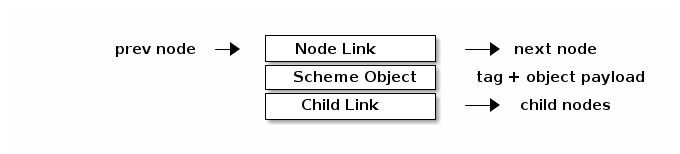
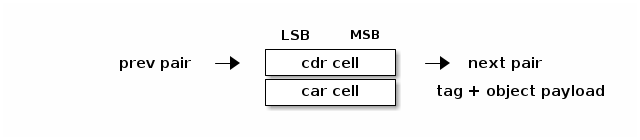
Updated for cons cells

diff --git a/docs/manual.html b/docs/manual.html
@@ -468,6 +468,7 @@ body.book #toc,body.book #preamble,body.book h1.sect0,body.book .sect1>h2{page-b
 <ul class="sectlevel2">
 <li><a href="#_design_descisions">Design descisions</a></li>
 <li><a href="#_memory_map">Memory Map</a></li>
+<li><a href="#_compiler_stuff">Compiler stuff</a></li>
 <li><a href="#_the_repl">The REPL</a></li>
 <li><a href="#_scheme_objects">Scheme objects</a></li>
 </ul>
@@ -792,9 +793,9 @@ depending on the object in question.</p>
 <p>We immediately see the challenges of running Scheme on an 8-bit machine with
 small register, address, and word sizes. Even earliest version of Lisp was
 envisioned for a machine with a 36-bit word size and 15-bit pointers, the IBM
-701.<a href="#JM1">[JM1]</a> It was first [actually
-implemented](<a href="https://en.wikipedia.org/wiki/IBM_704" class="bare">https://en.wikipedia.org/wiki/IBM_704</a>) on an IBM 704 with the same
-word size.<a href="#JM2">[JM2]</a> We have less to work with then the first Lispers back in 1960.</p>
+701.<a href="#JM1">[JM1]</a> It was first <a href="https://en.wikipedia.org/wiki/IBM_704">actually
+implemented</a> on an IBM 704 with the same word size.<a href="#JM2">[JM2]</a> We have less to work
+with then the first Lispers back in 1960.</p>
 </div>
 <div class="paragraph">
 <p>For Cthulhu Scheme, we use a 16-bit object size, reserving the hightest nibble
@@ -818,9 +819,9 @@ the (IBM) 704.
 </div>
 </div>
 <div class="paragraph">
-<p>The big, simple split in Cthulhu Scheme is between things that go in RAM and things that
-go in ROM. The code attempts to use the section functions of the 64tass
-assembler to make the best possible use of both.</p>
+<p>The basic big, simple split in Cthulhu Scheme is between things that go in RAM
+and things that go in ROM. The code attempts to use the section functions of the
+64tass assembler to make the best possible use of both.</p>
 </div>
 <div class="admonitionblock note">
 <table>
@@ -844,11 +845,66 @@ more Zero Page memory.
 <div class="sect3">
 <h4 id="_ram_segments">RAM Segments</h4>
 <div class="paragraph">
-<p>A Cthulhu Scheme object consists of a four bit tag from bits 15 to 12 and a
-12 bit pointer to the object in the heap. With twelve bits, we can only address
-4 Kbit of RAM. Because of this, the available RAM will be divided into segments
-at some point. Currenlty, during development, it is all in one block.</p>
+<p>A Cthulhu Scheme object consists of a four bit tag (bits 15 to 12) and a 12 bit
+pointer to the object in the heap (bits 11 to 0). With twelve bits, we can
+address 4 Kbit of RAM. Because of this, the available RAM is divided into
+segments. Each is numbered by the leading nibble from 0 to $F. These do not
+eactly correspond to the tag nibbles. Currently, we have</p>
 </div>
+<div class="ulist">
+<ul>
+<li>
+<p>0 ($0000 to $0FFF): Reserved for Zero Page, Stack, and buffers</p>
+</li>
+<li>
+<p>1 ($1000 to $1FFF): Default AST segment (<code>rsn_ast</code>)</p>
+</li>
+<li>
+<p>2 ($2000 to $2FFF): Default string segment (<code>rsn_str</code>)</p>
+</li>
+</ul>
+</div>
+<div class="paragraph">
+<p>As Cthulhu progresses, other segments will be assigned for symbols, bignums and
+procedures.</p>
+</div>
+<div class="paragraph">
+<p>Everything above segment 8 ($8000) is ROM. Segment 7 ($7000 to $7FFF) is
+reserved for garbage collection in the future.</p>
+</div>
+<div class="admonitionblock note">
+<table>
+<tr>
+<td class="icon">
+<i class="fa icon-note" title="Note"></i>
+</td>
+<td class="content">
+Though it is way too early in the development process to think about
+garbage collection, one possible way would be to reserve one 4 KiB segment for
+reorganizing once one of the other segments fills up.
+</td>
+</tr>
+</table>
+</div>
+<div class="paragraph">
+<p>It is tempting to assign the same tag and segment numbers, so that the tag
+nibble for strings corresponds to the RAM segment nibble. Though that would make
+the code easier, it would mean that the RAM segments are fixed, and it is
+possible that the garbage collection and other actions will move them around.</p>
+</div>
+</div>
+</div>
+<div class="sect2">
+<h3 id="_compiler_stuff">Compiler stuff</h3>
+<div class="paragraph">
+<p>The classic structure of a Lisp or Scheme program are linked pairs. Our Abstract
+Syntax Tree (AST) uses this structure internally with two 16-bit values that
+follow each other: The first one is the <code>cdr</code>, the second one the <code>car</code>.</p>
+</div>
+<div class="paragraph">
+<p>In theory, we could construct other parts such as the string table from linked
+lists as well. However, for reasons of efficiency, we currently use other
+structures.</p>
 </div>
 </div>
 <div class="sect2">
@@ -890,29 +946,8 @@ here, but not much.</p>
 <div class="sect3">
 <h4 id="_parser">Parser</h4>
 <div class="paragraph">
-<p>The parser creates an Abstract Syntax Tree (AST) with homogeneous nodes based on
-the description in <em>Language Implementation Patters</em> by Terence Parr.<a href="#TP">[TP]</a> Each
-node consists of three 16-bit fields:</p>
-</div>
-<div class="olist arabic">
-<ol class="arabic">
-<li>
-<p>A pointer to the <strong>next node</strong>. If there is no next node, this is <code>0000</code>.</p>
-</li>
-<li>
-<p>The <strong>Scheme object</strong> of the node. This is constructed out of the token stream.
-See below for a more thorough discussion of objects.</p>
-</li>
-<li>
-<p>A pointer to the <strong>children nodes</strong>. If there are no children nodes, this is
-<code>0000</code>.</p>
-</li>
-</ol>
-</div>
-<div class="imageblock">
-<div class="content">
-<img src="pics/ast_node.png" alt="ast node">
-</div>
+<p>The parser takes the linear token stream and converts it to an Abstract Syntax
+Tree (AST) consisting of <strong>cons cells</strong> - pairs of 16-bit Scheme objects.</p>
 </div>
 <div class="admonitionblock note">
 <table>
@@ -921,25 +956,32 @@ See below for a more thorough discussion of objects.</p>
 <i class="fa icon-note" title="Note"></i>
 </td>
 <td class="content">
-This design currently uses more memory that it has to by including a
-pointer to a child node even for objects like booleans that are immediate and
-never have children. At the moment, this design is kept because it makes walking
-the AST easier. In future versions, this will probaly be changed to handle
-heterogeneous nodes, saving space.
+During very early development, Cthulhu Scheme used a different system for
+the AST as scaffolding, based on homogeneous nodes from the the description in
+<em>Language Implementation Patters</em> by Terence Parr.<a href="#TP">[TP]</a> This has since been
+replaced by the classic Lisp cons cell design. We keep the term "AST" because it
+is by now more familiar.
 </td>
 </tr>
 </table>
+</div>
+<div class="paragraph">
+<p>The terms used for the pairs are traditional in Lisp and Scheme and rather
+stupid: <code>cdr</code> is the first 16-bit cell, which usually holds a Scheme pointer (designated by
+the object tag as a <strong>pair object</strong>) or the <strong>empty list object</strong> to signal the
+end of a list. The second cell is the <code>car</code>, which is the "payload" of the pair.
+If it too contains a pair object, this is a branch in the AST.</p>
+</div>
+<div class="imageblock">
+<div class="content">
+<img src="pics/ast_node.png" alt="ast node">
+</div>
 </div>
 </div>
 <div class="sect3">
 <h4 id="_evaluator">Evaluator</h4>
 <div class="paragraph">
 <p>In the next step, the AST is "walked" by the evaluator.</p>
-</div>
-<div class="paragraph">
-<p>The main routine for the evaluator is named <code>apply</code>. Its function is to take the
-first element of the AST level as a procedure and run the children of the level
-through it.</p>
 </div>
 </div>
 <div class="sect3">
@@ -974,11 +1016,10 @@ through it.</p>
 <p>Character (immediate, bit code TODO)</p>
 </li>
 <li>
-<p>List (pointer, bit code TODO)</p>
+<p>Pair (pointer, bit code TODO)</p>
 </li>
 <li>
-<p>Procedure (pointer, bit code 000) The bit code 000 was chosen to make
-detecting a procedure as fast as possible</p>
+<p>Procedure (pointer, bit code TODO)</p>
 </li>
 <li>
 <p>String (pointer, bit code TODO).</p>
@@ -989,15 +1030,15 @@ detecting a procedure as fast as possible</p>
 </ul>
 </div>
 <div class="paragraph">
-<p>There are quite a number of object types missing here compared to normal list&#8201;&#8212;&#8201;see for example the [GNU Guile data
-types](<a href="https://www.gnu.org/software/guile/manual/html_node/Data-Types.html" class="bare">https://www.gnu.org/software/guile/manual/html_node/Data-Types.html</a>), but
-some sacrifices had to be made.</p>
+<p>There are quite a number of object types missing here compared to normal list&#8201;&#8212;&#8201;compare for example the
+<a href="https://www.gnu.org/software/guile/manual/html_node/Data-Types.html">GNU
+Guile data types</a>, but some sacrifices had to be made.</p>
 </div>
 <div class="sect4">
 <h5 id="_booleans">Booleans</h5>
 <div class="paragraph">
 <p>The <code>#t</code> (true) and <code>#f</code> (false) booleans are self-evaluating and therefore were
-the first object that was implemented. Though formally, <code>#t</code> comes with the
+the first object to be implemented. Though formally, <code>#t</code> comes with the
 object <code>$1111</code>, in practice we only check the LSB, that is, <code>$ff</code>. This might
 change in future versions. The <code>#f</code> object is <code>$1000</code>. Neither have children in
 the Abstract Syntax Tree (AST) created by the parser.</p>
@@ -1053,20 +1094,10 @@ for a further discussion.</p>
 <div class="paragraph">
 <p>Stings are <strong>interned</strong>, that is, the actual ASCII characters are stored on the
 heap, zero-terminated. The link to beginning of the string is stored in two
-places: The heap and the <strong>string table</strong>. This is used to compare a new string
-to the already stored strings so we don&#8217;t share the same entry twice.</p>
+places: The string RAM segment and the <strong>string table</strong>. This is used to compare
+a new string to the already stored strings so we don&#8217;t share the same entry
+twice.</p>
 </div>
-</div>
-</div>
-<div class="sect3">
-<h4 id="_procedures">Procedures</h4>
-<div class="paragraph">
-<p>There are two types of procedures in Cthulhu Scheme: <em>native procedures</em> that
-are coded in assembler and <em>non-native procedures</em> (also <em>high-level
-procedures</em>) that are provided in Scheme code and loaded during boot.</p>
-</div>
-<div class="sect4">
-<h5 id="_built_in_procedures">Built-in procedures</h5>
 <div class="admonitionblock note">
 <table>
 <tr>
@@ -1074,14 +1105,29 @@ procedures</em>) that are provided in Scheme code and loaded during boot.</p>
 <i class="fa icon-note" title="Note"></i>
 </td>
 <td class="content">
-Scheme and Lisp both insist in holding on to <code>car</code> and <code>cdr</code> as terms and
-commands, which makes as much sense as the famously silly <code>umount</code> command in
-the Unix bash shell. Though these are included as commands, Cthulhu Scheme and
-especially this documentation uses <code>first</code> and <code>rest</code>.
+The string table doesn&#8217;t use the class cons cell structure but a far more
+simple linked list where the zero-terminated string starts in the byte right
+after the 16-bit pointer.
 </td>
 </tr>
 </table>
 </div>
+</div>
+</div>
+<div class="sect3">
+<h4 id="_procedures">Procedures</h4>
+<div class="paragraph">
+<p>There are two types of procedures in Cthulhu Scheme: <em>primitive procedures</em> that
+are coded in native assembler and <em>compound procedures</em> (also <em>high-level
+procedures</em>) that are provided in Scheme code and loaded during boot.</p>
+</div>
+<div class="sect4">
+<h5 id="_primitive_procedures">Primitive procedures</h5>
+
+</div>
+<div class="sect4">
+<h5 id="_compond_procedures">Compond procedures</h5>
+
 </div>
 </div>
 </div>
